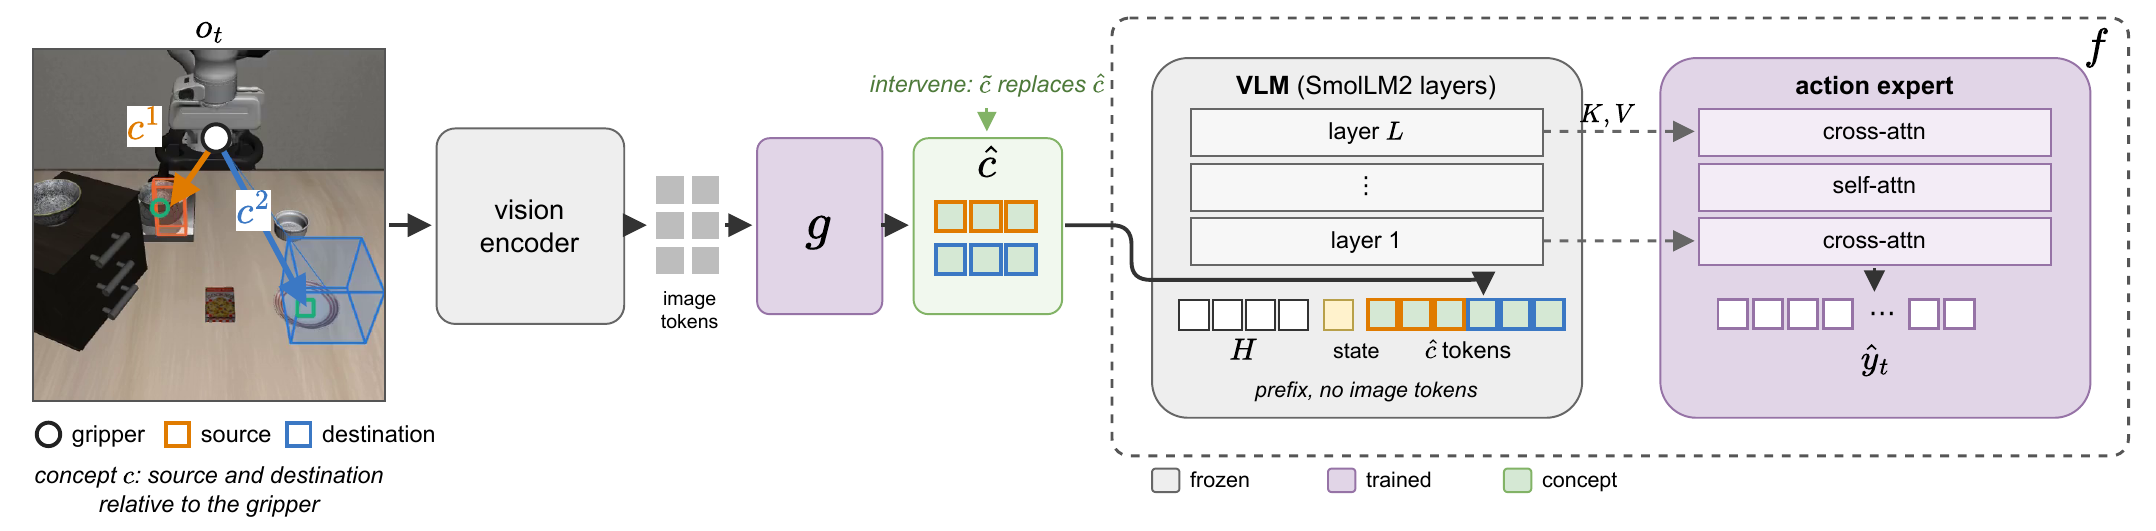
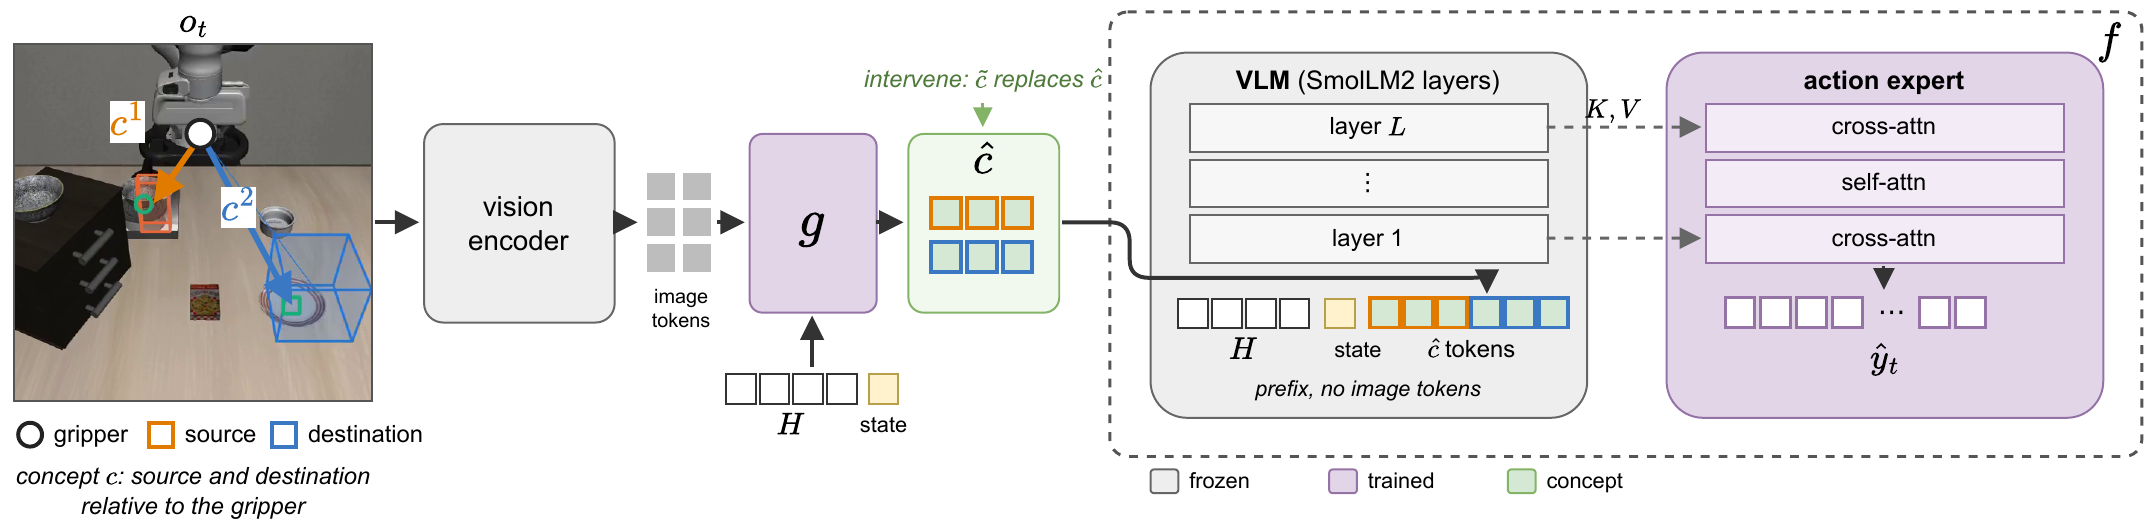
Update from the revised paper, add real-world results

diff --git a/index.html b/index.html
@@ -103,7 +103,7 @@
       <div class="columns">
         <div class="column">
           <video autoplay muted loop playsinline width="100%"><source src="./static/videos/nav-rescued__imitate__DYehNKdT76V_0000000_toilet_115.mp4" type="video/mp4"></video>
-          <p class="cap">Navigation: the VLM moves the costmap's minimum off the wall, and the robot reaches the goal.</p>
+          <p class="cap">Navigation: Claude moves the costmap's minimum off the wall, and the robot reaches the goal.</p>
         </div>
         <div class="column">
           <video autoplay muted loop playsinline width="100%"><source src="./static/videos/steer-task7.mp4" type="video/mp4"></video>
@@ -132,12 +132,21 @@
       <figcaption class="cap">Spatial concept bottleneck for navigation. The concept predictor \(g\) (VGGT with fine-tuned global attention and a costmap head) predicts the costmap \(\hat C\) from the current view \(o_t\), the eight localized traversal frames \(m_{1..8}\) and the sub-goal \(a_t\). The task predictor \(f\) (the action head) takes only the costmap as input and outputs five waypoints.</figcaption>
     </figure>
     \[ C_t(u) = \psi\big(a^1_t, X_t(u)\big) = \big\lVert a^1_t - X_t(u) \big\rVert_2 \]
-    <p class="cap has-text-centered">We define a spatial concept bottleneck for navigation as a visual representation of navigation affordances in the robot's current view. The sub-goal pixel is the only anchor, and the egocentric entity is the 3D point \(X_t(u)\) of each pixel \(u\) of the current observation.</p>
+    <p>
+      We define a spatial concept bottleneck for navigation as a visual representation of navigation affordances in the robot's current view.
+      Here, the only anchor is the sub-goal, the pixel with the shortest path to the goal in the eight traversal frames nearest to the robot, and the egocentric entity is the 3D point \(X_t(u)\) of each pixel \(u\) of the current view.
+      We average the cost over the patches of a \(16 \times 16\) grid on the current view and min-max normalize per image, as in ObjectReact.
+    </p>
+    <p>
+      For navigation, what matters is the path length from a pixel to the goal around obstacles, but the perception backend, VGGT, predicts 3D Euclidean geometry and cannot see beyond walls or the provided views.
+      We therefore pick the sub-goal by path length and keep the costmap Euclidean, the straight-line distance to that sub-goal.
+      Since the path to a nearby sub-goal is often close enough to a straight line, we expect this concept to be easier for VGGT to learn than the path length itself.
+    </p>
 
     <h3 class="title is-4">Manipulation</h3>
     <figure>
       <img src="./static/images/manip-setup.png" alt="Manipulation setup">
-      <figcaption class="cap">Spatial concept bottleneck on SmolVLA. Left: the concept \(c\) is where the source (\(c^1\)) and the destination (\(c^2\)) are relative to the gripper. The frozen vision encoder feeds only the concept predictor \(g\), whose prediction \(\hat c\) enters the task predictor \(f\) as concept tokens, after the instruction \(H\) and the state, and the image tokens are removed. An intervention replaces \(\hat c\) with \(\tilde c\).</figcaption>
+      <figcaption class="cap">Spatial concept bottleneck on SmolVLA. Left: the concept \(c\) is where the source (\(c^1\)) and the destination (\(c^2\)) are relative to the gripper. The frozen vision encoder feeds only the concept predictor \(g\), which also reads the instruction \(H\) and the state. Its prediction \(\hat c\) enters the task predictor \(f\) as concept tokens, after the instruction \(H\) and the state, and the image tokens are removed. \(f\) is SmolVLA's frozen language layers and its trained action expert. An intervention replaces \(\hat c\) with \(\tilde c\).</figcaption>
     </figure>
     \[ c^k_t = \psi (a^k_t, r_t) = \beta\left(a^k_t - r_t\right), \qquad k \in \{1, 2\} \]
     <p>
@@ -146,6 +155,11 @@
       We use a single egocentric spatial entity that represents the end effector position \(r_t\), and \(\beta\) discretizes each axis of the difference in positions into 13 bins on a logarithmic scale.
       The concept therefore consists of six values, the \(x\), \(y\) and \(z\) offsets of the source and of the destination from the gripper.
       The bins are narrow near the gripper and wide far from it, giving centimetre precision close to the object and a coarse direction elsewhere.
+    </p>
+    <p>
+      The concept predictor \(g\) is a single cross-attention layer with six trainable query vectors, one for each concept token: the \(x\), \(y\) and \(z\) bins of the source and destination.
+      The queries attend to the image tokens of both cameras from the frozen vision encoder, the robot state, and the word embeddings of the instruction, and each query's output goes to its own classifier over the 13 bins, trained with cross-entropy.
+      The action expert reads only the instruction \(H\), the state \(\rho_t\) and the six concept tokens.
     </p>
     <div class="columns is-vcentered">
       <div class="column is-two-thirds">
@@ -176,14 +190,21 @@
         <tbody>
           <tr><td>GT-Geodesics</td><td>96.43<span class="pm">±2.34</span></td><td>98.78<span class="pm">±1.72</span></td><td>86.53<span class="pm">±4.07</span></td><td>91.16<span class="pm">±3.20</span></td><td>88.42<span class="pm">±0.20</span></td><td>91.67<span class="pm">±1.19</span></td><td>82.99<span class="pm">±0.32</span></td><td>91.97<span class="pm">±0.39</span></td><td>88.59<span class="pm">±1.63</span></td><td>93.40<span class="pm">±0.83</span></td></tr>
           <tr><td>GT-ED</td><td>72.16<span class="pm">±2.00</span></td><td>74.58<span class="pm">±1.53</span></td><td>70.29<span class="pm">±4.89</span></td><td>78.49<span class="pm">±5.94</span></td><td>67.76<span class="pm">±2.28</span></td><td>70.72<span class="pm">±3.19</span></td><td>68.41<span class="pm">±2.51</span></td><td>77.53<span class="pm">±1.12</span></td><td>69.65<span class="pm">±1.78</span></td><td>75.33<span class="pm">±1.35</span></td></tr>
+          <tr><td>GT-ED (sub-goal)</td><td>89.36<span class="pm">±0.71</span></td><td>92.36<span class="pm">±0.25</span></td><td>82.34<span class="pm">±3.23</span></td><td>87.64<span class="pm">±3.04</span></td><td>79.52<span class="pm">±0.56</span></td><td>81.00<span class="pm">±0.35</span></td><td>7.87<span class="pm">±2.12</span></td><td>23.08<span class="pm">±0.16</span></td><td>64.77<span class="pm">±0.60</span></td><td>71.02<span class="pm">±0.69</span></td></tr>
           <tr class="rule"><td>Direct Action</td><td>82.61<span class="pm">±5.77</span></td><td>86.92<span class="pm">±3.07</span></td><td>59.99<span class="pm">±13.07</span></td><td>67.84<span class="pm">±12.07</span></td><td>61.15<span class="pm">±5.91</span></td><td>71.86<span class="pm">±4.21</span></td><td>18.41<span class="pm">±3.28</span></td><td><b>34.47</b><span class="pm">±2.82</span></td><td>55.54<span class="pm">±0.47</span></td><td>65.28<span class="pm">±0.49</span></td></tr>
           <tr><td>Spatial CAM</td><td><b>87.25</b><span class="pm">±0.03</span></td><td><b>89.70</b><span class="pm">±0.46</span></td><td>28.18<span class="pm">±7.16</span></td><td>41.45<span class="pm">±9.01</span></td><td>38.13<span class="pm">±0.27</span></td><td>42.01<span class="pm">±0.70</span></td><td>7.86<span class="pm">±2.25</span></td><td>15.71<span class="pm">±0.78</span></td><td>40.36<span class="pm">±1.17</span></td><td>47.22<span class="pm">±2.00</span></td></tr>
-          <tr><td>Spatial CBM*</td><td>81.14<span class="pm">±5.83</span></td><td>86.44<span class="pm">±2.54</span></td><td>57.81<span class="pm">±2.94</span></td><td>68.08<span class="pm">±3.56</span></td><td>66.06<span class="pm">±3.92</span></td><td>74.20<span class="pm">±2.97</span></td><td>12.55<span class="pm">±0.08</span></td><td>27.33<span class="pm">±2.27</span></td><td>54.39<span class="pm">±3.19</span></td><td>64.01<span class="pm">±1.70</span></td></tr>
-          <tr><td>Spatial CBM</td><td>80.80<span class="pm">±2.08</span></td><td>86.12<span class="pm">±1.82</span></td><td><b>68.27</b><span class="pm">±6.43</span></td><td><b>73.89</b><span class="pm">±5.33</span></td><td><b>73.06</b><span class="pm">±2.69</span></td><td><b>80.29</b><span class="pm">±1.80</span></td><td><b>19.38</b><span class="pm">±10.22</span></td><td>33.73<span class="pm">±9.12</span></td><td><b>60.38</b><span class="pm">±5.36</span></td><td><b>68.51</b><span class="pm">±4.52</span></td></tr>
+          <tr><td>Spatial CBM*</td><td>80.53<span class="pm">±8.69</span></td><td>87.78<span class="pm">±3.16</span></td><td><b>74.30</b><span class="pm">±3.57</span></td><td><b>80.99</b><span class="pm">±1.40</span></td><td>65.29<span class="pm">±7.25</span></td><td>71.42<span class="pm">±3.12</span></td><td>13.90<span class="pm">±2.30</span></td><td>33.72<span class="pm">±2.38</span></td><td>58.51<span class="pm">±4.30</span></td><td>68.48<span class="pm">±1.82</span></td></tr>
+          <tr><td>Spatial CBM</td><td>80.80<span class="pm">±2.08</span></td><td>86.12<span class="pm">±1.82</span></td><td>68.27<span class="pm">±6.43</span></td><td>73.89<span class="pm">±5.33</span></td><td><b>73.06</b><span class="pm">±2.69</span></td><td><b>80.29</b><span class="pm">±1.80</span></td><td><b>19.38</b><span class="pm">±10.22</span></td><td>33.73<span class="pm">±9.12</span></td><td><b>60.38</b><span class="pm">±5.36</span></td><td><b>68.51</b><span class="pm">±4.52</span></td></tr>
         </tbody>
       </table>
     </div>
-    <p class="cap">SPL and SSPL on four navigation tasks, with the best non-oracle scores in bold.</p>
+    <p class="cap">SPL and SSPL on four navigation tasks, mean and standard deviation over two seeds on all 126 episodes (32 Imitate, 32 Alt-goal, 31 Shortcut, 31 Reverse). Best non-oracle scores are in bold. GT-Geodesics and GT-ED have no sub-goal and give the distance to the final goal along the shortest path and in a straight line, respectively. GT-ED (sub-goal) is the true concept, and every learned row uses the same sub-goal.</p>
+    <p>
+      With our own true concept, GT-ED (sub-goal), the controller does better than every learned variant on Imitate, Alt-goal and Shortcut.
+      This implies that having the spatial concept as an intermediary is in itself not a performance bottleneck, rather it is the lack of the ability to predict perfect concepts.
+      GT-ED (sub-goal) fails only on Reverse, where the sub-goal is often behind the robot.
+      The straight-line distance to a point behind the robot is lowest at the pixels nearest the robot, so the costmap gives no signal to turn around.
+    </p>
 
     <br>
     <h3 class="title is-4">Manipulation</h3>
@@ -206,7 +227,42 @@
         </tbody>
       </table>
     </div>
-    <p class="cap">Success (%) on the ten LIBERO-Spatial tasks over two training seeds (<sup>†</sup>one seed).</p>
+    <p class="cap">Success (%) on the ten LIBERO-Spatial tasks over two training seeds (<sup>†</sup>one seed), with 200 episodes per seed. Best non-oracle scores are in bold.</p>
+    <p>
+      With predicted concepts, both Spatial CBM* and Spatial CBM fall below Direct Action.
+      As in navigation, this gap comes from predicting the concept and not from the bottleneck itself, and intervening on the concept recovers part of it.
+      When objects are moved 5&ndash;10&nbsp;cm away from their positions in the demonstrations (table (b) below), true concepts still guide the robot at least as well as Direct Action, but the concept predictor makes more errors and Spatial CBM falls below Direct Action, so here as well the limit is the concept predictor.
+    </p>
+    <div class="columns is-centered">
+      <div class="column is-narrow table-wrap">
+        <table class="table paper-table">
+          <thead>
+            <tr><th>(a) Action expert reads</th><th>GT (\(c\))</th><th>Spatial CBM* (\(\hat c\))</th><th>Steering</th></tr>
+          </thead>
+          <tbody>
+            <tr><td>Concepts</td><td>85.8<span class="pm">±0.4</span></td><td>79.8<span class="pm">±1.8</span></td><td><b>93.5</b><span class="pm">±2.1</span></td></tr>
+            <tr><td>Images + concepts</td><td>86.5<span class="pm">±0.0</span></td><td>80.8<span class="pm">±1.1</span></td><td>42.8<span class="pm">±8.1</span></td></tr>
+            <tr><td>Images</td><td>61.5</td><td>&ndash;</td><td>&ndash;</td></tr>
+            <tr><td>Neither</td><td>4.5</td><td>&ndash;</td><td>&ndash;</td></tr>
+          </tbody>
+        </table>
+      </div>
+      <div class="column is-narrow table-wrap">
+        <table class="table paper-table">
+          <thead>
+            <tr><th>(b) Method</th><th>Bowl</th><th>Bowl + plate</th></tr>
+          </thead>
+          <tbody>
+            <tr><td>GT</td><td>45.5<span class="pm">±3.5</span></td><td>16.8<span class="pm">±3.2</span></td></tr>
+            <tr><td>GT, one sentence</td><td>68.0<span class="pm">±1.4</span></td><td>25.1<span class="pm">±2.8</span></td></tr>
+            <tr class="rule"><td>Direct Action</td><td><b>28.5</b><span class="pm">±2.1</span></td><td><b>15.3</b><span class="pm">±1.1</span></td></tr>
+            <tr><td>Spatial CBM*</td><td><b>28.5</b><span class="pm">±3.5</span></td><td>7.3<span class="pm">±1.1</span></td></tr>
+            <tr><td>Spatial CBM</td><td>23.5<span class="pm">±0.7</span></td><td>3.3<span class="pm">±0.4</span></td></tr>
+          </tbody>
+        </table>
+      </div>
+    </div>
+    <p class="cap">Success (%). (a) Where the bottleneck sits, for the policy trained with a single sentence shared across all ten tasks, so that the instruction does not name the bowl. (b) The bowl, or the bowl and the plate, moved 5&ndash;10&nbsp;cm from their positions in the demonstrations.</p>
   </div>
 </section>
 
@@ -229,6 +285,11 @@
       For correction, the oracle provides the true source and destination points at every step.
       For steering, we train the action expert with a single sentence shared across all ten tasks in place of the instruction, so that the concept is the only input that tells the robot which bowl to pick, and the oracle provides the position of the other, identical bowl as the source.
       For an unseen object, the oracle provides the position of the ramekin, which is never moved in any demonstration, and we compare against Direct Action whose instruction asks for the ramekin.
+    </p>
+    <p>
+      Editing the source concept makes the robot place the other bowl in 93.5% of the episodes.
+      Keeping the image tokens along with concepts gives about the same success, but steering then works only in some tasks, as the images pull the robot back to the bowl it was trained on (table (a) above).
+      For the unseen object, the robot places the ramekin in 67.0% of the episodes, against 7.0% for Direct Action.
     </p>
     <figure>
       <img src="./static/images/manip-interventions.png" alt="Manipulation interventions">
@@ -253,16 +314,29 @@
     <h3 class="title is-4">Navigation</h3>
     <p>
       We split the spatial concept bottleneck of navigation, the costmap, into three sectors: left, center, and right, which map the three most common commands an intervener would likely give.
-      The VLM is provided the last six camera frames taken five steps apart, eight frames from the earlier traversal, the current view, the sub-goal-containing view, and the final destination image.
-      Most importantly, the VLM is provided only the predicted costmap \(\hat{c}_t\) (and never the true costmap \(c_t\)) to propose an intervention.
+      Each sector is a column which spans five, six, and five pixels respectively of the \(16\times16\) costmap.
+      Every five steps, the intervener is allowed to pick a sector.
+      The sub-goal is replaced by the lowest-cost pixel in the middle of that sector as \(\tilde{a}^1_t\), and the costmap is recomputed as each pixel's Euclidean distance to it.
+      The controller keeps using this costmap until the intervener is asked again.
+    </p>
+    <p>
+      We use Claude Opus 5 as the VLM intervener.
+      It is provided the last six camera frames taken five steps apart, eight frames from the earlier traversal, the current view, the sub-goal-containing view, and the final destination image.
+      Most importantly, Claude is provided only the predicted costmap \(\hat{c}_t\) (and never the true costmap \(c_t\)) to propose an intervention.
       It is required to output &ldquo;none&rdquo; if no change is required, or the proposed sector along with a brief reasoning.
-      We use the oracle to detect differences between the predicted and true costmaps and trigger the intervention.
+      The trigger is tested in two cases: with the oracle gate, where the oracle detects differences between the predicted and true costmaps and triggers the intervention, and without it, where Claude decides at every check.
+    </p>
+    <p>
+      Without edits, Spatial CBM succeeds in 84 of the 126 episodes.
+      The oracle's intervention fixes six episodes and breaks one.
+      When Claude is triggered on oracle disagreement, it fixes ten episodes and breaks three.
+      When Claude is ungated, it still fixes ten episodes but breaks 16, eight of them on Alt-goal.
     </p>
     <p class="cap">Each video shows one episode without (left) and with (right) intervention: the RGB view and the costmap (blue is low cost, white square: least-cost cell).</p>
     <div id="nav-carousel" class="carousel results-carousel">
       <div class="item">
         <video autoplay muted loop playsinline><source src="./static/videos/nav-rescued__imitate__DYehNKdT76V_0000000_toilet_115.mp4" type="video/mp4"></video>
-        <p class="cap">Imitate: the VLM moves the costmap's minimum off the wall to the middle of the corridor, and the robot reaches the goal.</p>
+        <p class="cap">Imitate: Claude moves the costmap's minimum off the wall to the middle of the corridor, and the robot reaches the goal.</p>
       </div>
       <div class="item">
         <video autoplay muted loop playsinline><source src="./static/videos/nav-rescued__imitate__bCPU9suPUw9_0000000_chair_11.mp4" type="video/mp4"></video>
@@ -270,11 +344,11 @@
       </div>
       <div class="item">
         <video autoplay muted loop playsinline><source src="./static/videos/nav-rescued__reverse__Dd4bFSTQ8gi_0000000_sofa_9.mp4" type="video/mp4"></video>
-        <p class="cap">Reverse: the VLM turns left even though the oracle's sector was right, and the robot reaches the goal.</p>
+        <p class="cap">Reverse: Claude turns left even though the oracle's sector was right, and the robot reaches the goal.</p>
       </div>
       <div class="item">
         <video autoplay muted loop playsinline><source src="./static/videos/nav-rescued__shortcut__BAbdmeyTvMZ_0000000_chair_68.mp4" type="video/mp4"></video>
-        <p class="cap">Shortcut: the robot reaches the goal only with the VLM's interventions.</p>
+        <p class="cap">Shortcut: the robot reaches the goal only with Claude's interventions.</p>
       </div>
       <div class="item">
         <video autoplay muted loop playsinline><source src="./static/videos/nav-broken__shortcut__mL8ThkuaVTM_0000000_bed_26.mp4" type="video/mp4"></video>
@@ -286,59 +360,87 @@
 
 <section class="section">
   <div class="container is-max-desktop">
+    <h2 class="title is-3">Real-world results: navigation</h2>
+    <p>
+      We test the navigation setup on a Unitree Go2 in a home, run open loop on recorded data.
+      We record a mapping run and three repeat runs of the same route.
+      We use the frames from these three runs to see where we can intervene.
+    </p>
+    <p>
+      The setup is the same as in simulation, except the sub-goal comes from A* on the robot's lidar floor map instead of the navigation mesh.
+      The model is the same one, trained only in simulation.
+    </p>
+    <p>
+      We gave Claude (Opus 5.5) the same inputs as in the navigation intervention (current view with the predicted costmap, sub-goal frame, destination) on 8 frames taken just before the robot turns.
+      It reasoned for an edit on 3 of them, and each edit moved the costmap minimum where Claude intended.
+      In one, the minimum was on a bed and Claude answered &ldquo;center&rdquo;, since &ldquo;the white air purifier from the destination picture stands on open floor at the right edge of the center region&rdquo;.
+      On the other 5 it said &ldquo;none&rdquo;.
+    </p>
+    <figure>
+      <img src="./static/images/go2-claude-input.png" alt="Claude's inputs for one real frame">
+      <figcaption class="cap">Claude's inputs for one frame. Left: the current view with the predicted costmap \(\hat C\), where + marks its minimum. Middle: the frame from the mapping run with the sub-goal circled. Right: the destination.</figcaption>
+    </figure>
+    <figure>
+      <img src="./static/images/go2-claude-edits.png" alt="Claude's edits on real frames">
+      <figcaption class="cap">Claude's edits on real frames. Left: the predicted costmap \(\hat C\), with its minimum circled. Right: the costmap after re-running \(g\) with a pixel in the sector Claude names as the new sub-goal (cross), and its minimum moves there. Claude's reasons: (a) &ldquo;The + sits at the foot of the curtain against the wall, a dead end, while the open floor and the room with the whiteboard stand lie past the curtain to the right.&rdquo; (b) &ldquo;The destination is the white air purifier in front of the whiteboard, which stands at the right edge of the center column, while the + sits at the bottom of the left column against the bed frame.&rdquo; (c) &ldquo;The + sits on the bed at the far left, while the white air purifier from the destination picture stands on open floor at the right edge of the center region.&rdquo;</figcaption>
+    </figure>
+  </div>
+</section>
+
+<section class="section">
+  <div class="container is-max-desktop">
     <h2 class="title is-3">More qualitative results</h2>
 
-    <h3 class="title is-4">Navigation: how to read these panels</h3>
+    <h3 class="title is-4">Navigation: episodes rescued by Claude</h3>
     <p>
-      Each panel shows one decision of the VLM.
-      The top lines give the task and step, the VLM's chosen sector next to the oracle's and the predicted costmap's sectors, and the VLM's stated reason.
-      The strip below shows the walkthrough frames the VLM was given, from the robot's position to the destination (green border).
-      The left block is what the VLM saw, the current view with the predicted costmap over it, where the cross marks the costmap's lowest-cost cell.
-      The middle block is the VLM's choice, where the circle marks the new target.
-      The right column shows the reference and destination frames.
+      Each panel shows one decision of Claude, with its stated reason at the top and the traversal frames it was given below.
+      Left: what Claude saw, the current view with the predicted costmap, where + marks its minimum.
+      Middle: Claude's choice, where the circle marks the new sub-goal.
+      Right: the reference and destination frames.
+      We include failures as well.
     </p>
-
-    <h3 class="title is-4">Navigation: successful interventions</h3>
     <div class="columns is-multiline gallery">
       <div class="column is-full">
         <img src="./static/images/rescued-imitate-wall-to-corridor.jpg" alt="">
-        <p class="cap">Imitate: the VLM moves the target off a wall onto the open corridor, the same sector the oracle would choose.</p>
+        <p class="cap">Imitate: Claude moves the costmap's minimum off a wall onto the corridor, which is also the oracle's sector.</p>
       </div>
       <div class="column is-full">
         <img src="./static/images/rescued-shortcut-off-furniture.jpg" alt="">
-        <p class="cap">Shortcut: the VLM moves the target off the furniture toward the open living area, a different sector from the oracle's, and the robot reaches the goal.</p>
+        <p class="cap">Shortcut: Claude steers the robot off the furniture toward the open living area, against the oracle's sector.</p>
       </div>
       <div class="column is-full">
         <img src="./static/images/rescued-reverse-hallway-behind.jpg" alt="">
-        <p class="cap">Reverse: the VLM recognizes that the way out of the bedroom is behind and to the left.</p>
+        <p class="cap">Reverse (second training seed): Claude recognizes that the way out of the bedroom is behind and to the left.</p>
       </div>
     </div>
 
-    <h3 class="title is-4">Navigation: failure cases</h3>
+    <h3 class="title is-4">Navigation: episodes broken by Claude</h3>
     <p>
-      The VLM's stated reason shows why.
+      Claude's stated reason shows why.
       In Alt-goal the goal is not at the end of the recorded route, so relying on the route frames over the destination image misleads the VLM.
     </p>
     <div class="columns is-multiline gallery">
       <div class="column is-full">
         <img src="./static/images/broken-shortcut-bed-blocks-center.jpg" alt="">
-        <p class="cap">Shortcut: &ldquo;The bed blocks the center, open floor toward the doorway on the right is the way forward.&rdquo; The VLM follows the doorway seen in the route frames, while the shorter path to the goal goes left.</p>
+        <p class="cap">Shortcut: &ldquo;The bed blocks the center, open floor toward the doorway on the right is the way forward.&rdquo; Claude follows the doorway seen in the route frames, while the shorter path to the goal goes left.</p>
       </div>
       <div class="column is-full">
         <img src="./static/images/nogate-broken-altgoal-false-alarm.jpg" alt="">
-        <p class="cap">Alt-goal: the predicted costmap was already correct, and the VLM follows the route frames toward a doorway on the left, although the goal lies ahead.</p>
+        <p class="cap">Alt-goal: the predicted costmap was already correct, and Claude follows the route frames toward a doorway on the left, although the goal lies ahead.</p>
       </div>
       <div class="column is-full">
         <img src="./static/images/nogate-broken-altgoal-bathroom-doorway.jpg" alt="">
-        <p class="cap">Alt-goal: &ldquo;The robot has driven into the bathroom doorway.&rdquo; The VLM follows the route frames back toward the hallway, although the goal lies ahead.</p>
+        <p class="cap">Alt-goal: &ldquo;The robot has driven into the bathroom doorway.&rdquo; Claude follows the route frames back toward the hallway, although the goal lies ahead.</p>
       </div>
     </div>
 
     <h3 class="title is-4">Manipulation</h3>
-    <p class="cap">Each figure shows two runs from the same start: the top row without the intervention and the bottom row with it. Orange and blue boxes show where the concept places the source and the destination, and green marks the true positions.</p>
+    <p>
+      The boxes show the bins the concept assigns to the source (orange) and the destination (blue) around the gripper, and green marks each object's true position.
+    </p>
     <figure>
       <img src="./static/images/manip-correct.png" alt="Correction">
-      <figcaption class="cap">Correction: the robot fails with the predicted concept and places the bowl with the corrected one.</figcaption>
+      <figcaption class="cap">Correction, from the same start. Top: with the predicted concept \(\hat c\), the source concept is off by two bins at the start of the approach, and the robot fails. Bottom: with the corrected concept \(\tilde c\), the robot places the bowl. This episode uses a concept predictor trained on \(128 \times 128\) images.</figcaption>
     </figure>
     <div class="columns is-centered">
       <div class="column is-half">
@@ -347,11 +449,11 @@
     </div>
     <figure>
       <img src="./static/images/manip-steer.png" alt="Steering">
-      <figcaption class="cap">Steering: with the other, identical bowl as the source, the robot places that bowl.</figcaption>
+      <figcaption class="cap">Steering, from the same start, with the action expert trained on a single sentence shared across all tasks. Top: with the true concept, the robot places the named bowl. Bottom: the intervener provides the other, identical bowl as the source \(\tilde a^1_t\), and the robot places that bowl.</figcaption>
     </figure>
     <figure>
       <img src="./static/images/manip-ramekin.png" alt="Unseen object">
-      <figcaption class="cap">Unseen object: Direct Action does not place the ramekin, and with the ramekin as the source the robot places it on the plate.</figcaption>
+      <figcaption class="cap">An object that no demonstration moves, from the same start. Top: Direct Action, with its instruction asking for the ramekin, does not place it. Bottom: the intervener provides the ramekin as the source \(\tilde a^1_t\), and the robot places it on the plate.</figcaption>
     </figure>
   </div>
 </section>
